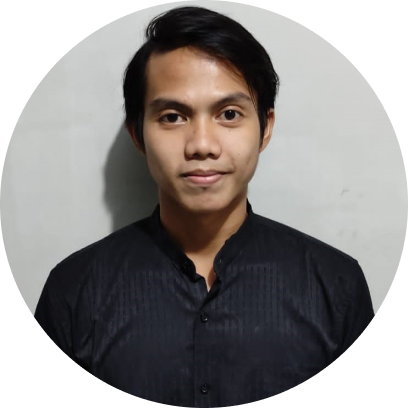
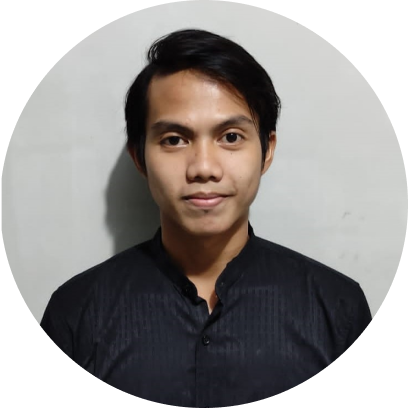
Update Team Foto

diff --git a/AboutUs.html b/AboutUs.html
@@ -89,9 +89,9 @@
                 <h3>Value in <span>TeavoU</span></h3>
                 
                 <ol>
-                    <li><span class="number1">1</span> Lorem ipsum dolor sit amet, consectetur adipiscing elit</li>
-                    <li><span class="number2">2</span> Lorem ipsum dolor sit amet, consectetur adipiscing elit</li>
-                    <li><span class="number1">3</span> Lorem ipsum dolor sit amet, consectetur adipiscing elit</li>
+                    <li><span class="numberganjil">1</span> Lorem ipsum dolor sit amet, consectetur adipiscing elit</li>
+                    <li><span class="numbergenap">2</span> Lorem ipsum dolor sit amet, consectetur adipiscing elit</li>
+                    <li><span class="numberganjil">3</span> Lorem ipsum dolor sit amet, consectetur adipiscing elit</li>
                 </ol>  
             </div>
         </div>
@@ -102,17 +102,17 @@
     <section class="TeavoUTeam" id="TeavoUTeam">
         <h4><span>TeavoU</span> Team</h4>
         <div class="TeavoUTeamcard">
-            <div><img src="Asset/team rifqi.png" alt="">Lorem ipsum
+            <div><img src="Asset/team azzizah.png" alt="">Nur Azzizah
             </div>
             <div><img src="Asset/team fadhel.png" alt="">Akhmad Fadhel
             </div>
-            <div><img src="Asset/team rifqi.png" alt="">Lorem ipsum
+            <div><img src="Asset/team nisrina.png" alt="">Nisrina Nurhasna
             </div>
             <div><img src="Asset/team diah.png" alt="">I Gusti Agung Diah<br>Arishma Okayani
             </div>
             <div><img src="Asset/team rifqi.png" alt="">Rifqi Nur Permadi
             </div>
-            <div><img src="Asset/team rifqi.png" alt="">Lorem ipsum
+            <div><img src="Asset/team balqis.png" alt="">Balqis Ramadhillah
             </div>
         </div>
     </section>

diff --git a/About Us/AboutUsStyle.css b/About Us/AboutUsStyle.css
@@ -235,7 +235,7 @@ header{
     width: 50%;
 }
 .profilecentrecard {
-    background: #FFFF;
+    background: #ffffff;
     padding: 20px;
     margin-left: 20px;
     margin-top: 10px;
@@ -247,14 +247,14 @@ header{
 }span{
     color: var(--button-color);
 }
-.number1{
+.numberganjil{
     color: var(--button-color);
     font-size: 2rem;
 }
 .profilecentrecard span{
     gap: 1.5rem ;
 }
-.number2{
+.numbergenap{
     color: var(--main-color);
     font-size: 2rem;
 }
